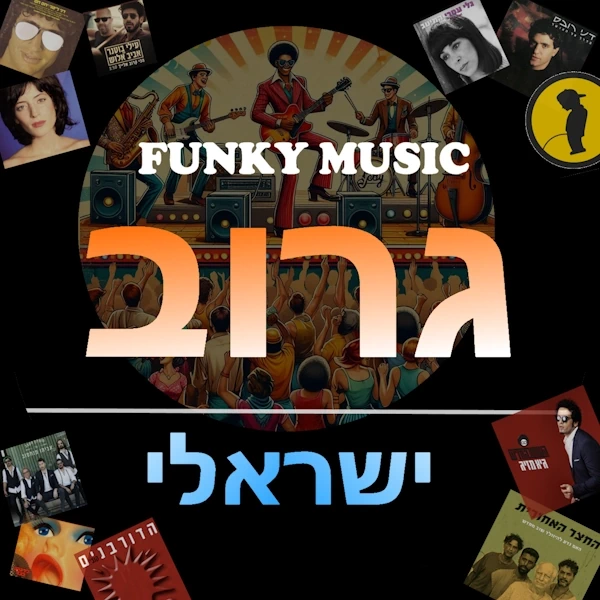
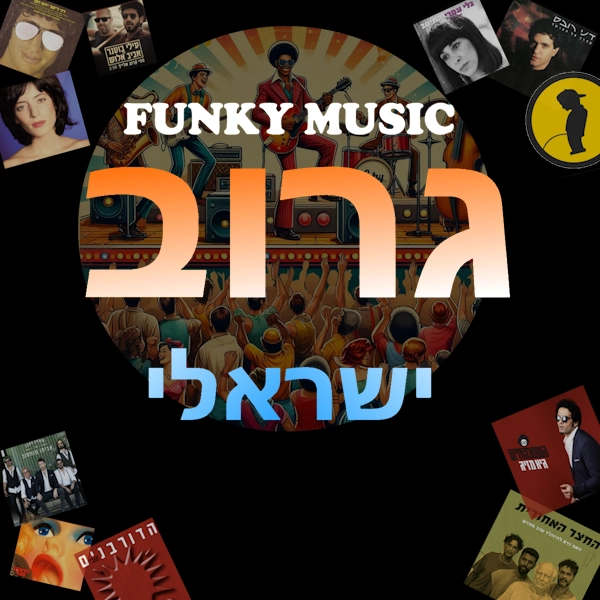
feat: update playlists UI with new thumbnails and styled overlay buttons

Changed region(s): [[0.03, 0.15, 0.96, 0.87]]

diff --git a/playlists.html b/playlists.html
@@ -29,7 +29,7 @@
 
   <link rel="preconnect" href="https://open.spotify.com" />
   <link rel="preconnect" href="https://i.scdn.co" />
-  <link rel="stylesheet" href="playlists.css?v=1.0.4" />
+  <link rel="stylesheet" href="playlists.css?v=1.1.2" />
   <script type="text/javascript">
     (function (c, l, a, r, i, t, y) {
       c[a] =
@@ -98,34 +98,34 @@
         description: "מוזיקה נעימה לכל מצב רוח",
       },
       {
-        name: "אינדי",
-        url: "https://open.spotify.com/playlist/0qYgjCnqOmG1WyJ3nZf841",
-        image: "Media/playlist/Indie.webp",
-        description: "ישראלי אינטימי רגוע",
-      },
-      {
         name: "ישראלי - הכי מושמעים ברדיו",
         url: "https://open.spotify.com/playlist/5T7r6CHJZd5ifrkjbhKHJR",
         image: "Media/playlist/Radio IL Playlist.webp",
-        description: "הכי מושמעים ברדיו | ישראלי",
+        description: "מה שמושמע עכשיו ברדיו | ישראלי",
+      },
+      {
+        name: "אינדי",
+        url: "https://open.spotify.com/playlist/0qYgjCnqOmG1WyJ3nZf841",
+        image: "Media/playlist/Indie.webp",
+        description: "פולק ישראלי",
       },
       {
         name: "שקט ורגוע",
         url: "https://open.spotify.com/playlist/2pItlRIEcNpVrdrNPvTJiU",
         image: "Media/playlist/quiet.webp",
-        description: "שקט ורגוע",
-      },
-      {
-        name: "בלוז",
-        url: "https://open.spotify.com/playlist/65wTGctt19zF9RWcopD5uq",
-        image: "Media/playlist/blues.webp",
-        description: "בלוז ישראלי לנשמה",
+        description: "להירגע ולשכוח מהכול",
       },
       {
         name: "רוק",
         url: "https://open.spotify.com/playlist/36YoT388ljvJSssrC0LUMK",
         image: "Media/playlist/rock.webp",
         description: "לאוהבי רוק ישראלי קצבי",
+      },
+      {
+        name: "בלוז",
+        url: "https://open.spotify.com/playlist/65wTGctt19zF9RWcopD5uq",
+        image: "Media/playlist/blues.webp",
+        description: "בלוז ישראלי לנשמה",
       },
       {
         name: "גרוב",
@@ -137,7 +137,7 @@
         name: "ישראלי/לועזי - הכי מושמעים ברדיו",
         url: "https://open.spotify.com/playlist/7EMf0tuEIQHBPj3ol56LyV",
         image: "Media/playlist/Radio All Playlist.webp",
-        description: "הכי מושמעים ברדיו | ישראלי/לועזי",
+        description: "מה שמושמע עכשיו ברדיו | ישראלי/לועזי",
       },
       {
         name: "מסע מרתק בין מילים",
@@ -225,9 +225,7 @@
           ? `<img class="img" alt="${name}" src="${img}" loading="lazy" width="512" height="512">`
           : `<div class="skeleton" aria-hidden="true"></div>`
         }
-          </div>
-          <div class="body">
-            <a class="btn" href="#">האזנה בספוטיפיי</a>
+            <span class="btn">האזנה בספוטיפיי</span>
           </div>
         </article>
       `;

diff --git a/playlists.css b/playlists.css
@@ -18,25 +18,27 @@ body {
 }
 
 header {
-  padding: 28px 16px 8px;
-  text-align: center
+  padding: 12px 16px 2px;
+  text-align: center;
 }
 
 header h1 {
-  margin: 0 0 6px;
-  font-size: clamp(23px, 3.5vw, 30px)
+  margin: 0;
+  font-size: clamp(20px, 4vw, 24px);
+  font-weight: 700;
+  color: var(--text);
 }
 
 header p {
-  margin: 0;
+  margin: 4px 0 0;
   color: var(--muted);
-  font-size: 18px
+  font-size: 16px;
 }
 
 .container {
   max-width: 1000px;
-  margin: 18px auto 60px;
-  padding: 0 14px
+  margin: 8px auto 40px;
+  padding: 0 14px;
 }
 
 .grid {
@@ -67,27 +69,45 @@ header p {
 
 .description {
   text-align: center;
-  margin: 18px 14px 0;
+  margin: 14px 10px 14px;
   color: var(--muted);
-  font-size: 18px;
-  line-height: 1.4;
+  font-size: 16px;
+  font-weight: 700;
+  line-height: 1.3;
+  letter-spacing: -0.2px;
 }
 
 .thumb {
+  position: relative;
   display: flex;
   justify-content: center;
   align-items: center;
   overflow: hidden;
-  max-width: 60%;
-  margin: 18px auto 0;
+  width: calc(100% - 24px);
+  max-width: 260px;
+  margin: 0 auto 12px;
   border-radius: 12px;
   cursor: pointer;
+  aspect-ratio: 1 / 1;
+}
+
+.thumb::after {
+  content: "";
+  position: absolute;
+  left: 0;
+  right: 0;
+  bottom: 0;
+  height: 48%;
+  background: linear-gradient(to top, rgba(0, 0, 0, 0.7) 0%, transparent 100%);
+  pointer-events: none;
+  z-index: 1;
 }
 
 .img {
   width: 100%;
-  height: auto;
-  display: block
+  height: 100%;
+  object-fit: cover;
+  display: block;
 }
 
 .skeleton {
@@ -109,7 +129,7 @@ header p {
 }
 
 .body {
-  padding: 14px 14px 18px
+  display: none;
 }
 
 .title {
@@ -120,22 +140,30 @@ header p {
 }
 
 .btn {
+  position: absolute;
+  bottom: 8px;
+  left: 50%;
+  transform: translateX(-50%);
+  width: 84%;
   display: block;
   text-align: center;
   text-decoration: none;
-  background: #3bb273;
+  background: rgba(29, 185, 84, 0.8);
+  backdrop-filter: blur(4px);
+  -webkit-backdrop-filter: blur(4px);
   color: #fff;
   padding: 8px 10px;
   border-radius: 10px;
   font-weight: 700;
   font-size: 14px;
-  width: 70%;
-  margin: 0 auto;
-  transition: opacity .15s ease
+  box-shadow: 0 4px 12px rgba(0, 0, 0, 0.4);
+  transition: background-color .15s ease, opacity .15s ease;
+  z-index: 2;
 }
 
-.btn:hover {
-  opacity: .9
+.btn:hover,
+.card:hover .btn {
+  background: rgba(30, 215, 96, 0.98);
 }
 
 .song-week-section {
